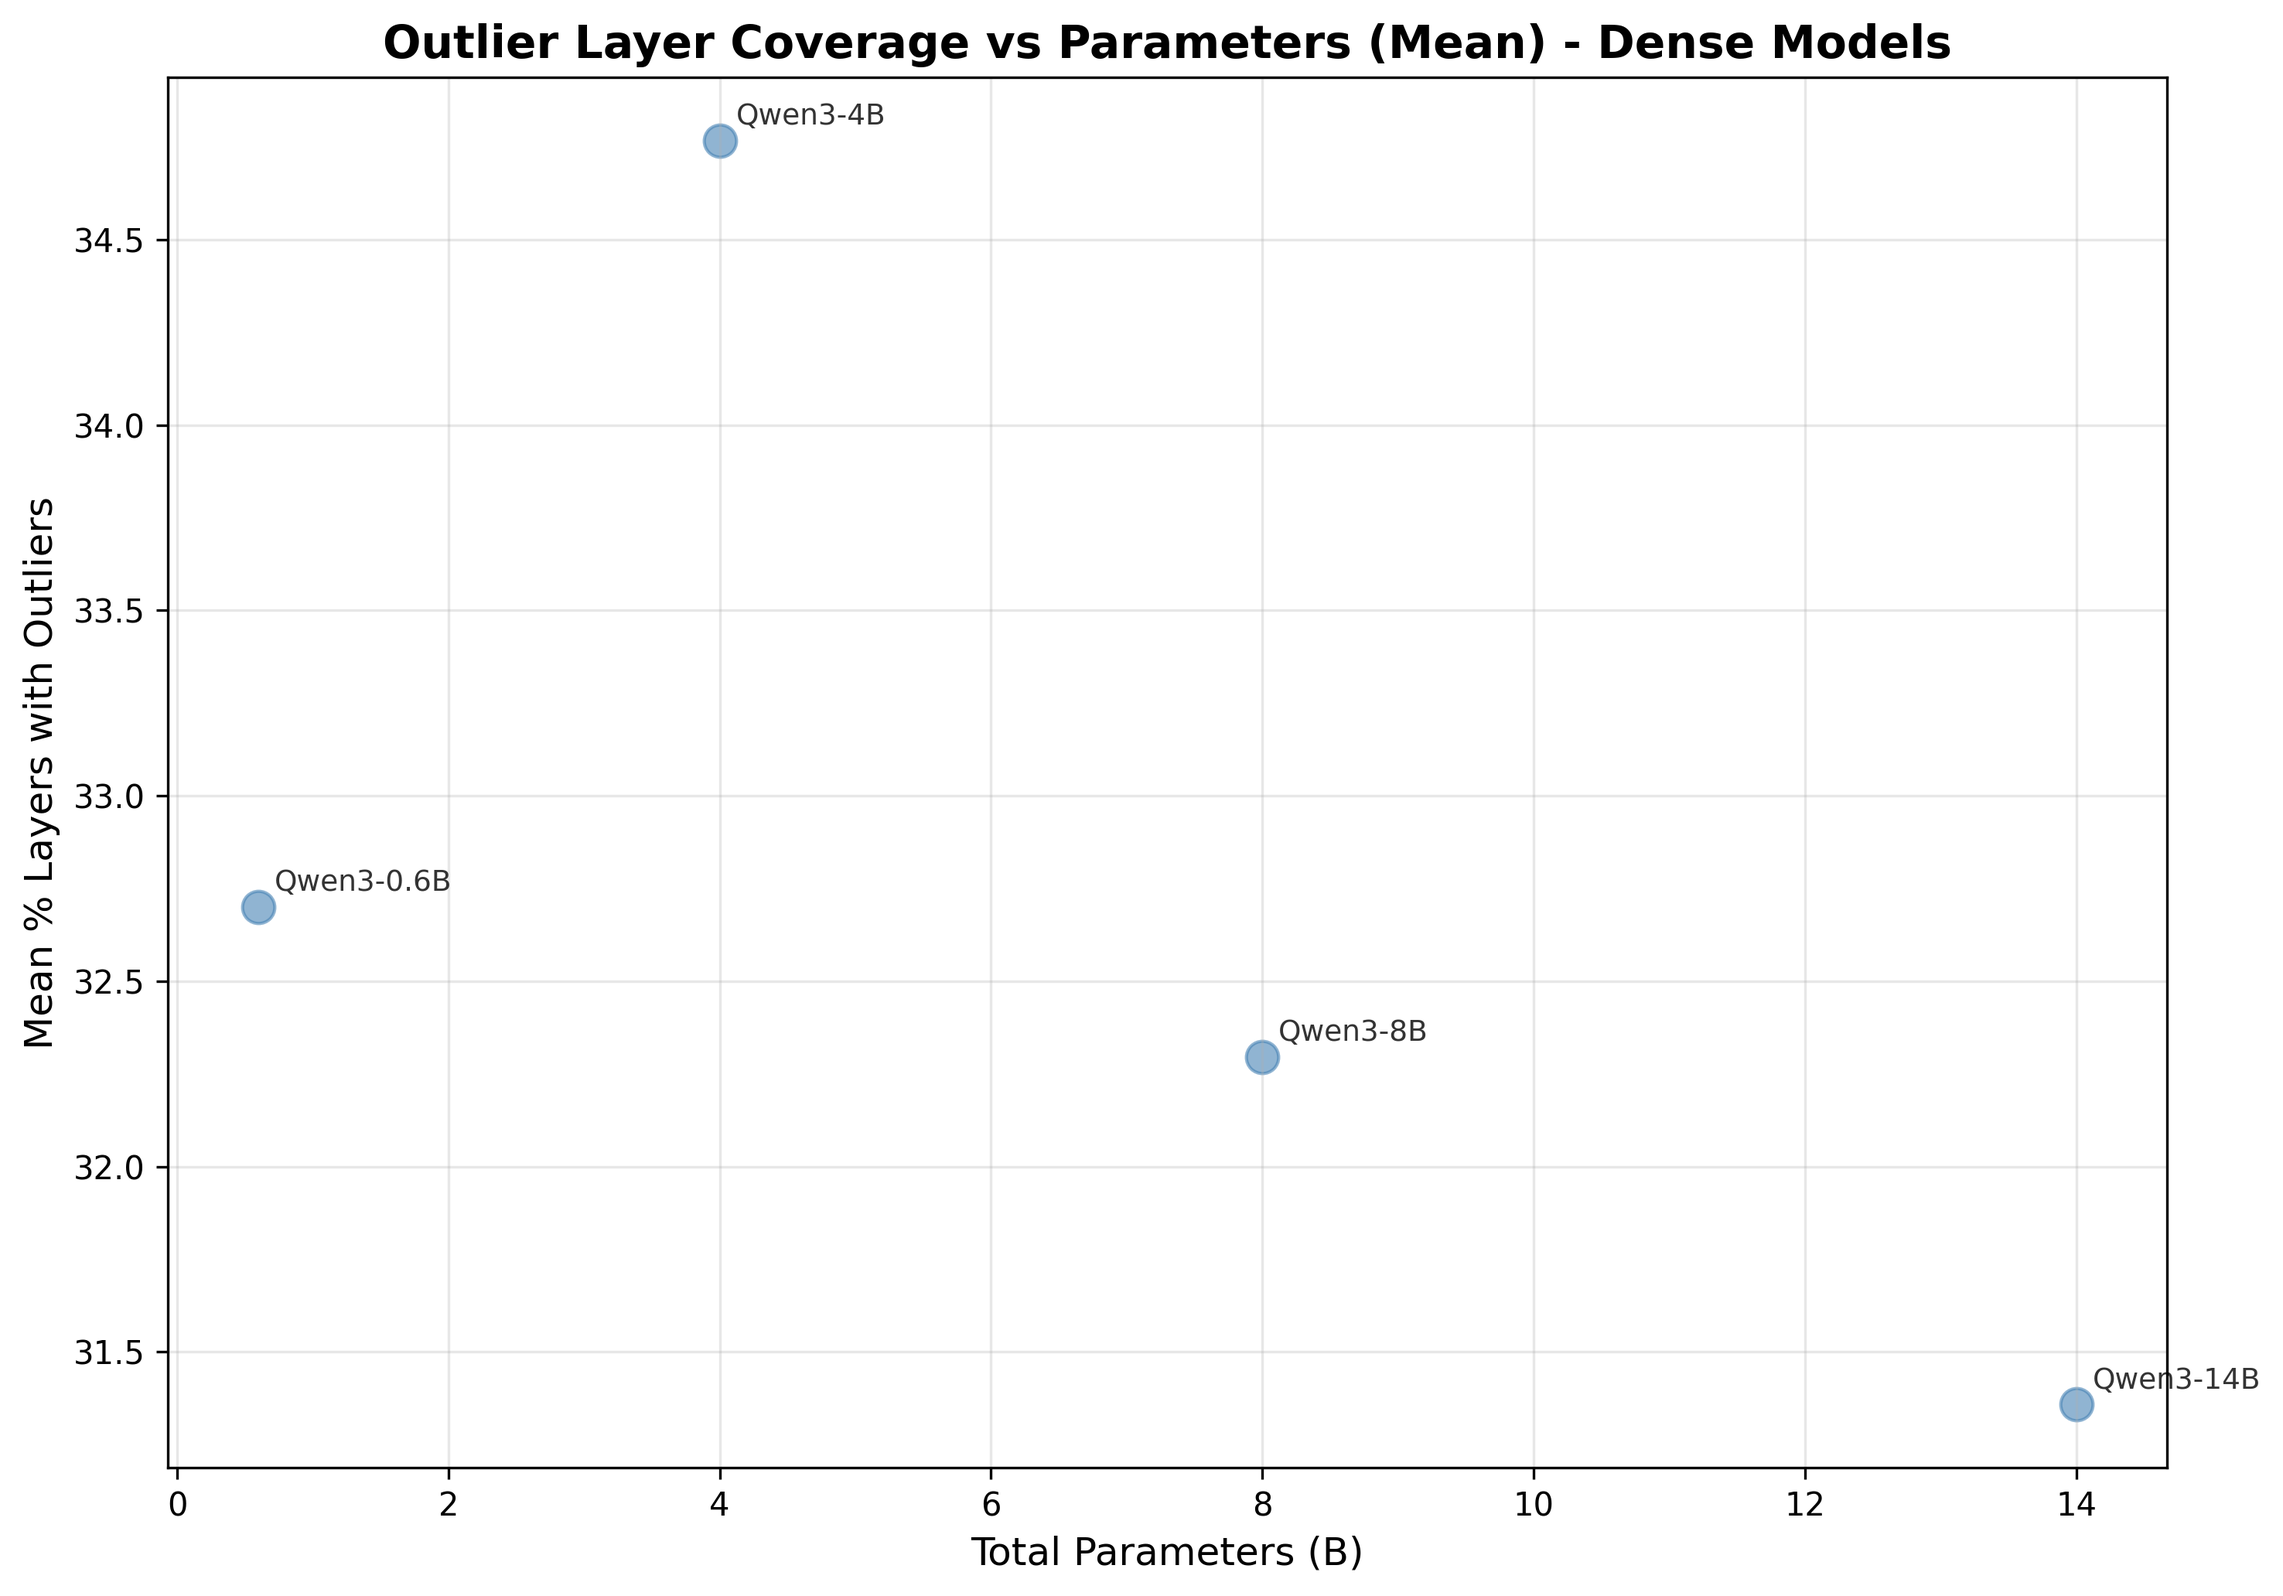
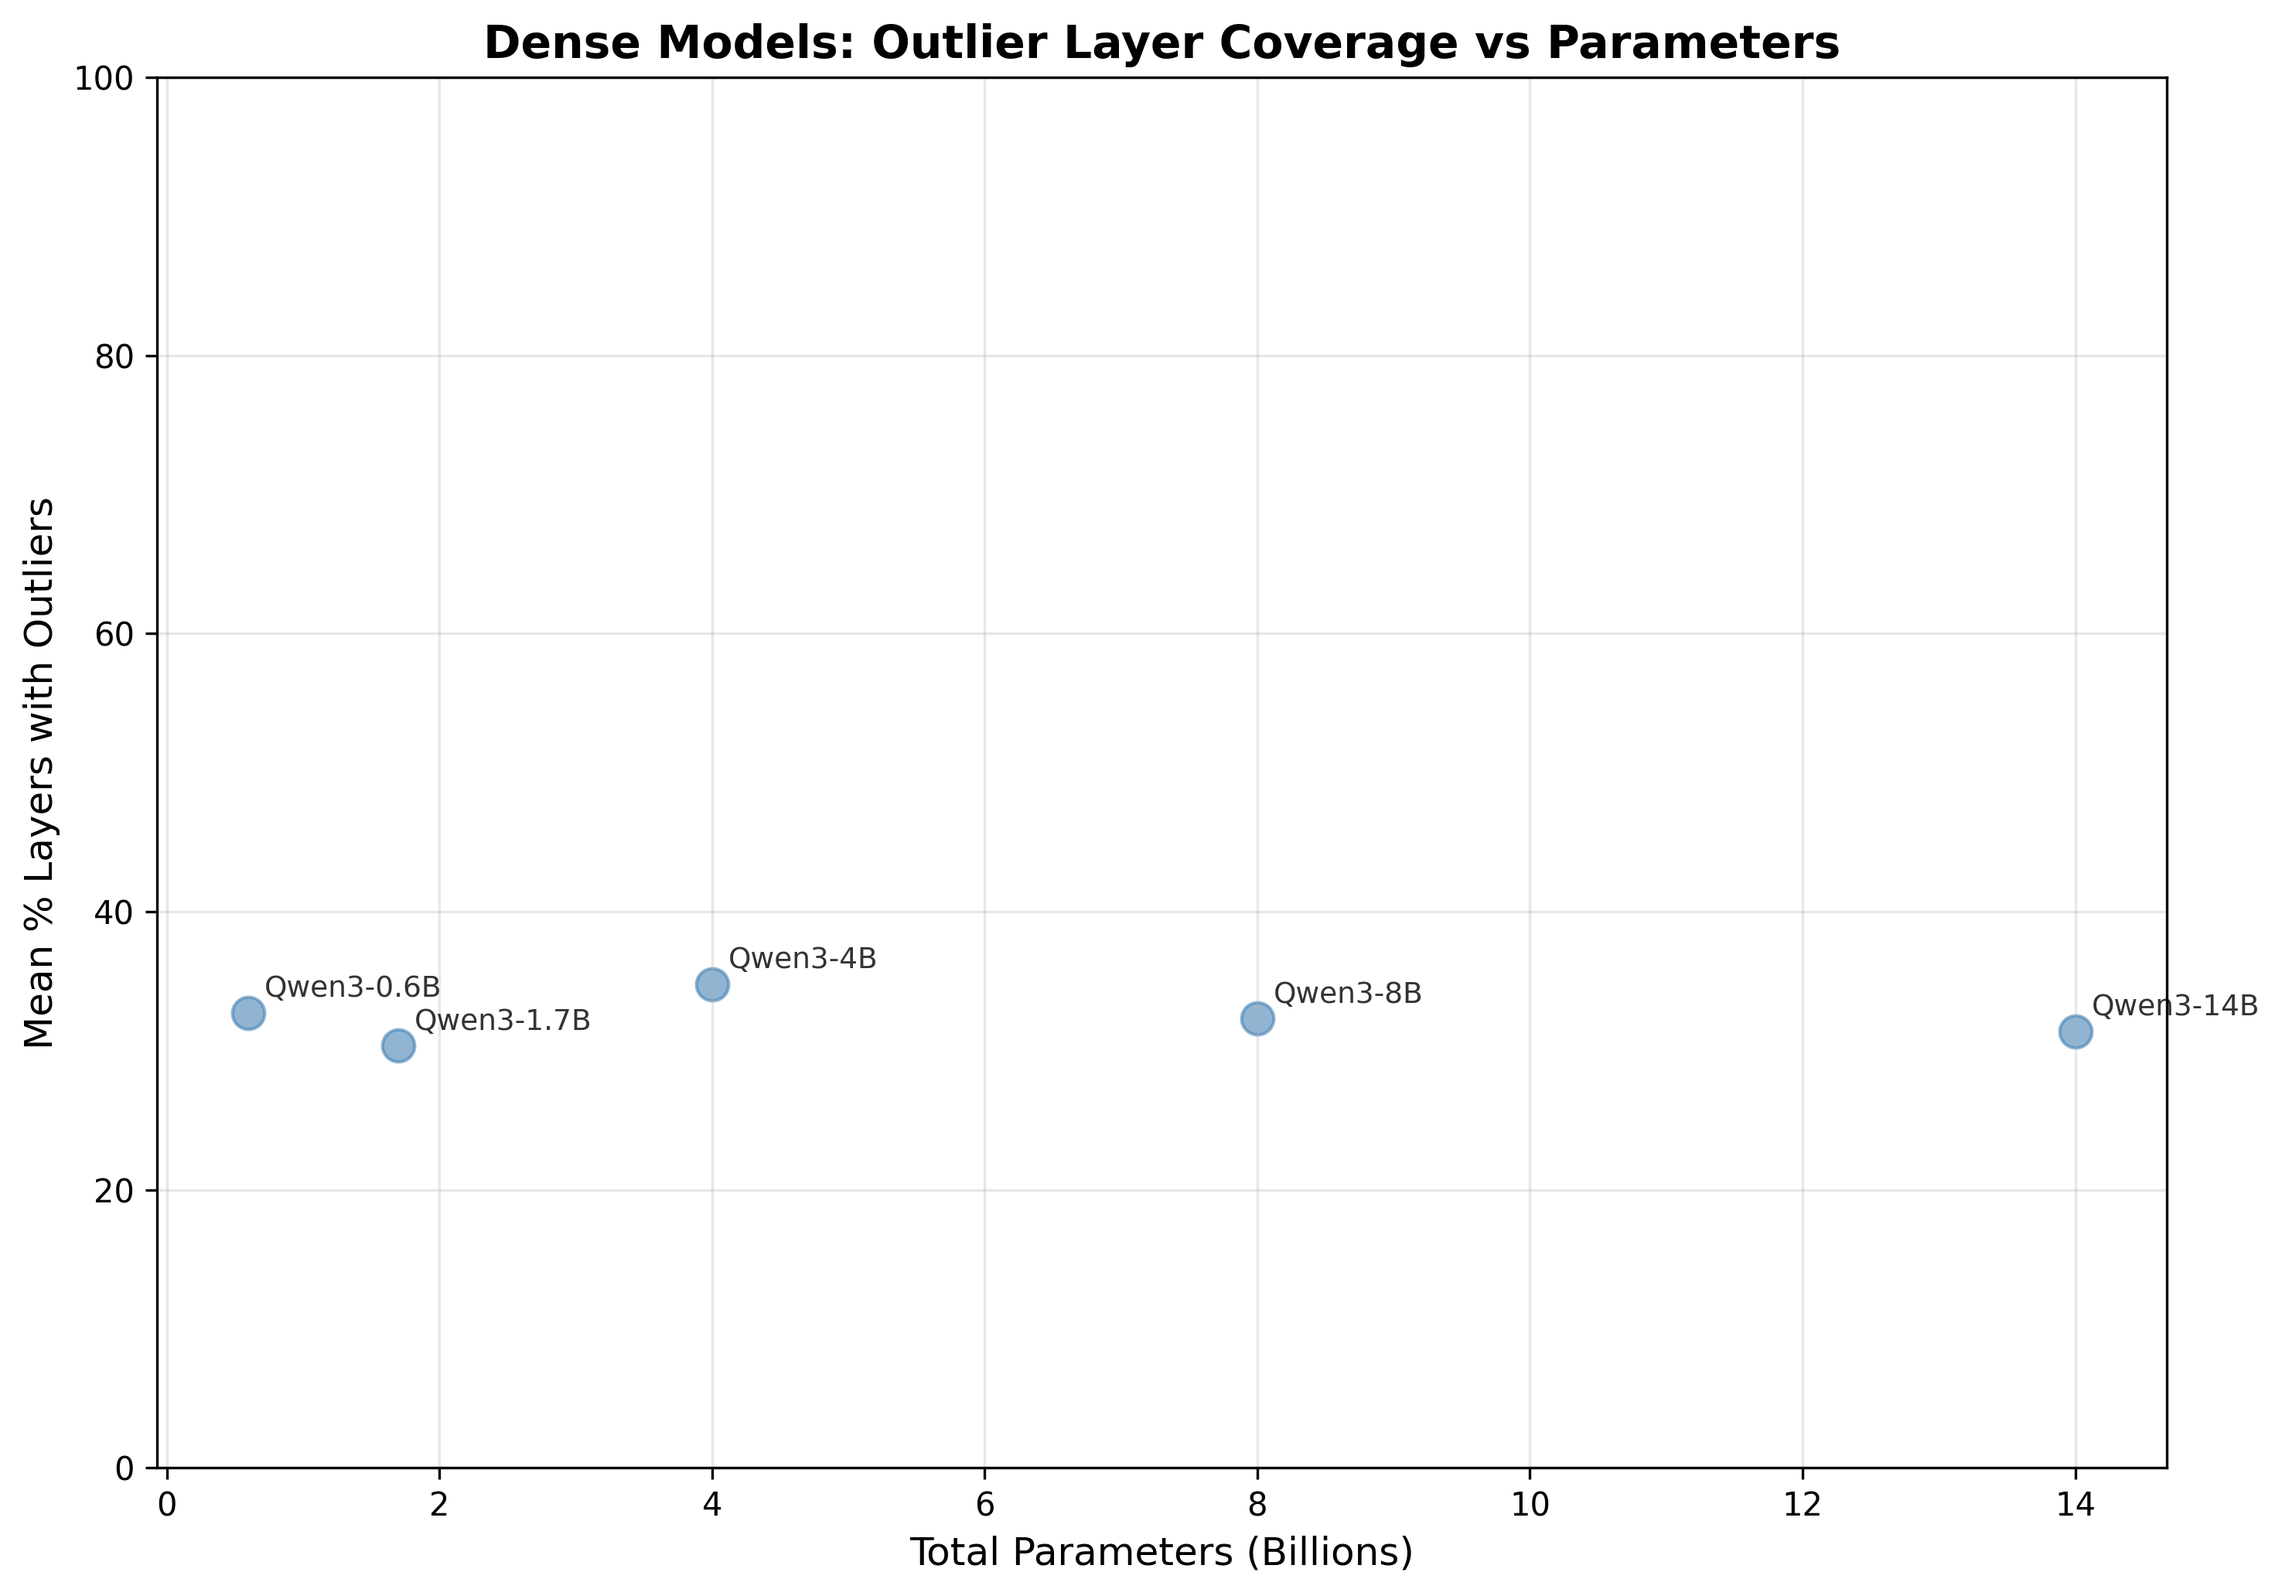
Add perplexity analysis and update plots with 0-100% y-axis
- Add new perplexity vs layer coverage plot for dense models (figure 4)
- Update all plots to use 0-100% y-axis for better visualization
- Remove completed perplexity analysis from limitations section
- Shows flat ~30% layer coordination regardless of perplexity or model size

🤖 Generated with [Claude Code](https://claude.com/claude-code)

diff --git a/_posts/2025-10-28-outlier-features.md b/_posts/2025-10-28-outlier-features.md
@@ -41,11 +41,14 @@ here's where it gets interesting.
 ![Dense Models - Parameters vs Layer Coverage](/assets/images/dense-params-layer-pct.png)
 *figure 3: qwen3 dense models show stable ~30% layer coordination across all sizes - no phase transition*
 
-instead of seeing the phase transition Dettmers found at 6.7B, I found something completely different: stable ~30% layer coordination across ALL model sizes. no phase transition. 
+instead of seeing the phase transition Dettmers found at 6.7B, I found something completely different: stable ~30% layer coordination across ALL model sizes. no phase transition.
 
-its not clear what's changed between 2022 and 2025. one hypothesis is that we've had so many architectural improvements between now and 2022: RoPE, RMSNorm, new FFNs/activation functions like SwiGLU. so its hard to say what exactly might have changed the need for these outlier features. 
+its not clear what's changed between 2022 and 2025. one hypothesis is that we've had so many architectural improvements between now and 2022: RoPE, RMSNorm, new FFNs/activation functions like SwiGLU. so its hard to say what exactly might have changed the need for these outlier features.
 
 additionally, new training datasets have become much more curated and filtered, and potentially higher signal. dettmers also found that the emergence correlated with model perplexity, not just model size. so higher quality data might have allowed models to learn feature representations that didn't require the outlier mechanism
+
+![Dense Models - Perplexity vs Layer Coverage](/assets/images/dense_perplexity_vs_layer_pct.png)
+*figure 4: plotting by perplexity instead of model size still shows the same flat ~30% pattern - no correlation between perplexity and outlier emergence*
 
 finally, it might just be the case that the 7B intelligence threshold doesn't really hold up at all. the stark difference in capabilities between models like Moondream, or Phi, at similar total parameter counts demonstrates that architecture and training data are more relevant to study than arbitrary parameter thresholds. perhaps in the past the parameter threshold alone was enough to make the distinction, with architectures and training data largely the same. but now post-training and divergent architectures make this threshold much harder to claim. 
 
@@ -58,7 +61,6 @@ below are some more details on methodology, and the code is available [here](htt
 - only tested one modern dense family: qwen3
 - could have tested more models from the same families in the MoE sweep
 - gpt-oss-20b and gpt-oss-120b were quantized with mxfp4, much more than other models studied
-- dettmers showed a more gradual change in validation perplexity vs parameter count, this is an obvious next target for study
 - used fineweb-edu instead of C4. this study should be robust to dataset choice but thought i would mention this anyways 
 
 
